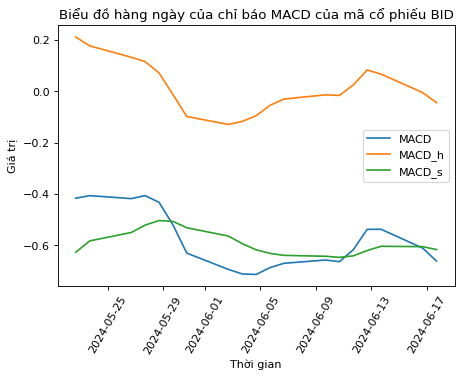
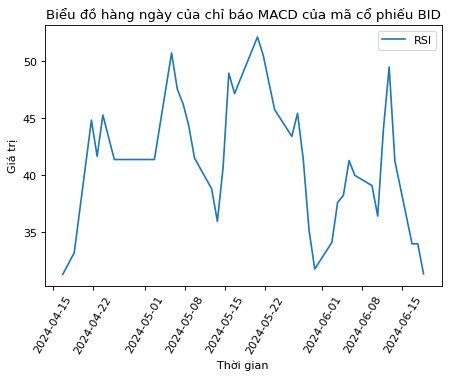
co len ban oi

diff --git a/discord_bot/cogs/explain.py b/discord_bot/cogs/explain.py
@@ -3,6 +3,10 @@ from discord.ext import commands
 from discord import app_commands
 from openai import AsyncOpenAI
 from dotenv import load_dotenv
+from langchain_core.messages import HumanMessage, SystemMessage
+from langchain_openai import ChatOpenAI, OpenAI
+import pandas as pd
+import pandas_ta as ta
 
 print(load_dotenv("../.env"))
 
@@ -11,7 +15,7 @@ class Explain(commands.Cog):
 
     def __init__(self, bot: commands.Bot):
         self.bot = bot
-        self.client = AsyncOpenAI()
+        self.llm = ChatOpenAI(temperature=0.5, model="gpt-4o", max_tokens=4095)
         self.explain = app_commands.ContextMenu(
             name="Giải thích",
             callback=self.explain_context_menu,
@@ -36,46 +40,40 @@ class Explain(commands.Cog):
         else:
             await interaction.response.defer()
             image_url = message.embeds[0].image.proxy_url
-            print(image_url)
-            response = await self.client.chat.completions.create(
-                model="gpt-4o",
-                messages=[
-                    {
-                        "role": "system",
-                        "content": [
+            # print(image_url)
+            msg = await self.llm.ainvoke(
+                [
+                    SystemMessage(
+                        [
                             {
                                 "type": "text",
                                 "text": "Analyze the stock trend from the graph user given, then give response with your analyze and predict trend of the stock and give advice like whether or not to buy or sell the stock. Response with no spare information like how the indicator works,... and also response in Vietnamese and add some markdown component for better visualization but dont use any codeblock or table",
                             }
-                        ],
-                    },
-                    {
-                        "role": "user",
-                        "content": [
+                        ]
+                    ),
+                    HumanMessage(
+                        content=[
                             {
                                 "type": "image_url",
-                                "image_url": {
-                                    "url": image_url,
-                                },
+                                "image_url": {"url": image_url},
                             },
-                        ],
-                    },
-                ],
-                max_tokens=4096,
-                timeout=100,
+                        ]
+                    ),
+                ]
             )
-            print(response)
+            print(msg.content)
             # print(image)
             # print(image.proxy_url)
             # print(image.url)
             embed = discord.Embed()
             embed.set_image(url=image_url)
-            await interaction.followup.send(
-                content=response.choices[0].message.content, embed=embed
-            )
+            await interaction.followup.send(content=msg.content, embed=embed)
 
-    @app_commands.command(name="dự_đoán")
-    async def predict(self, interaction: discord.Interaction):
+    @app_commands.command(name="dự_đoán", description="Dự đoán giá trị của cổ phiếu")
+    @app_commands.describe(ticker="Mã cổ phiếu cần dự đoán")
+    @app_commands.rename(ticker="mã_cổ_phiếu")
+    async def predict(self, interaction: discord.Interaction, ticker: str):
+
         await interaction.response.send_message("chua viet")
 
     async def cog_unload(self) -> None:

diff --git a/discord_bot/influx_db.py b/discord_bot/influx_db.py
@@ -55,12 +55,15 @@ def get_latest_data(
 |> filter(fn:(r) => r._measurement == "stock_price")
 |> filter(fn:(r) => r.ticker == "{ticker}")
 |> pivot(rowKey:["_time"], columnKey: ["_field"], valueColumn: "_value")
+|> sort(columns:["_time"], desc: true)
+|> limit(n:100)
 """
 
     # df=write_api.write(query=query)
     # print(df)
     df = query_api.query_data_frame(query=query)
     df.set_index("_time", inplace=True)
+    print(df)
     df = get_latest_data_point(df, field=field, indicator=indicator, period=period)
     df.index = df.index.tz_convert("Asia/Ho_Chi_minh").strftime("%Y-%m-%d %H:%M:%S")
     return df.iloc[0]
@@ -75,6 +78,8 @@ def get_latest_daily_data(
     |> filter(fn: (r) => r._measurement == "stock_daily")
     |> filter(fn: (r) => r.ticker == "{ticker}")
     |> pivot(rowKey:["_time"], columnKey: ["_field"], valueColumn: "_value")
+    |> sort(columns:["_time"], desc: true)
+    |> limit(n:100)
     """
     df = query_api.query_data_frame(query=query)
     df.set_index("_time", inplace=True)

diff --git a/discord_bot/cogs/analytics.py b/discord_bot/cogs/analytics.py
@@ -344,14 +344,15 @@ class Analaytics(commands.Cog):
                 f"Error: {e.errors()[0]['msg']}", ephemeral=True
             )
             return
-
+        print("heloooooooooooooooooooooooooooooooooooooooooooooo")
         obj: pd.Series = await get_latest_daily_data(
             ticker=ticker, field=field, indicator=indicator, period=period
         )
-
+        print("alooooooooooooooooooooo")
         await interaction.response.send_message(
             f'Giá trị gần nhất {indicator if indicator is not None else ""} {period if period is not None else ""} {field if field is not None else ""} của mã cổ phiếu {ticker} với trong phiên 1 ngày là {obj["value"]} tại thời điểm {obj.name}'
         )
+        # await interaction.response.send_message("hello mai fen")
 
     # Chart of daily_stock
     @app_commands.command(

diff --git a/discord_bot/chart.py b/discord_bot/chart.py
@@ -69,7 +69,8 @@ def one_day_chart(ticker, field, indicator, data):
 
 
 async def main():
-    data = await get_all_time_data(ticker="BID", indicator="macd")
+    data = await get_all_time_data(ticker="BID", indicator="rsi")
+    print(data)
     data_stream = all_time_chart("BID", field=None, indicator="macd", data=data)
     with open("output_image.png", "wb") as output_file:
         output_file.write(data_stream.read())

diff --git a/util/caculate_indicator.py b/util/caculate_indicator.py
@@ -51,9 +51,9 @@ def get_latest_data_point(
             df["value"] = ta.roc(df["close"], length=period)
             df = df[["value"]]
 
-    df = df.dropna().tail(1)
+    df = df.dropna().head(1)
     if len(df) > 0:
-        df = df.dropna().tail(1)
+        df = df.dropna().head(1)
         return df
     return None
     # need to make these so that it all return a slide with value is a value also with time
